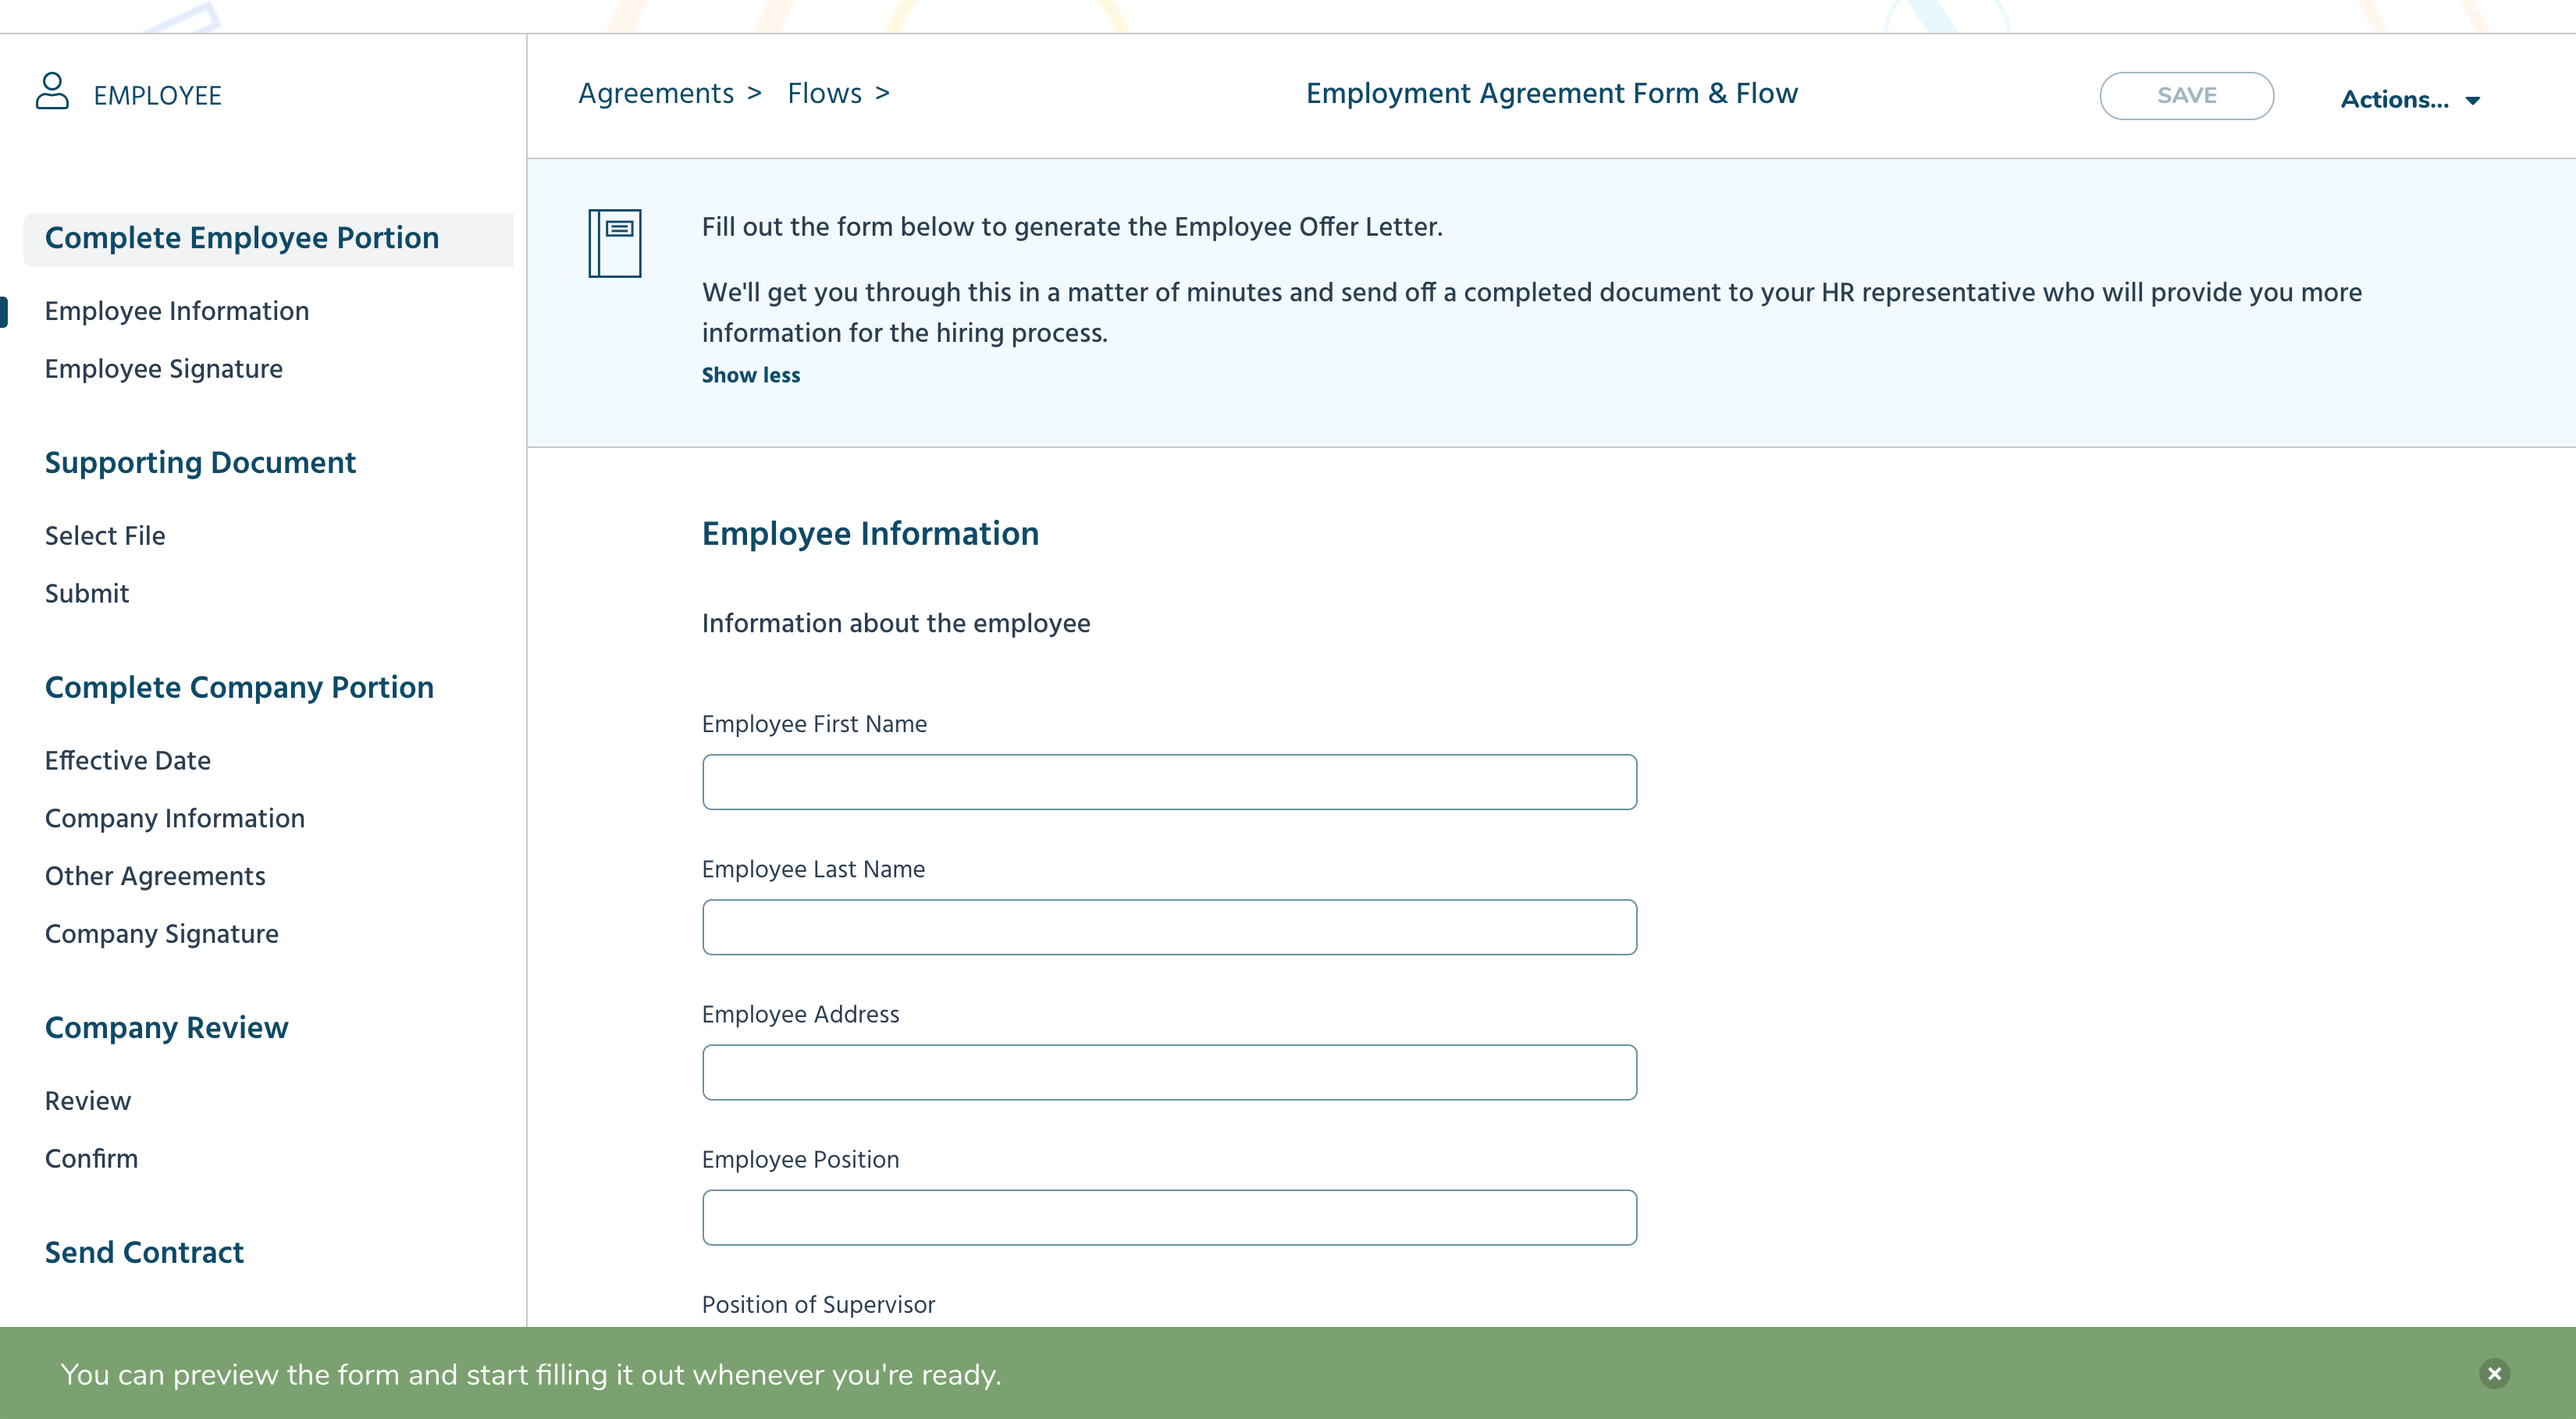
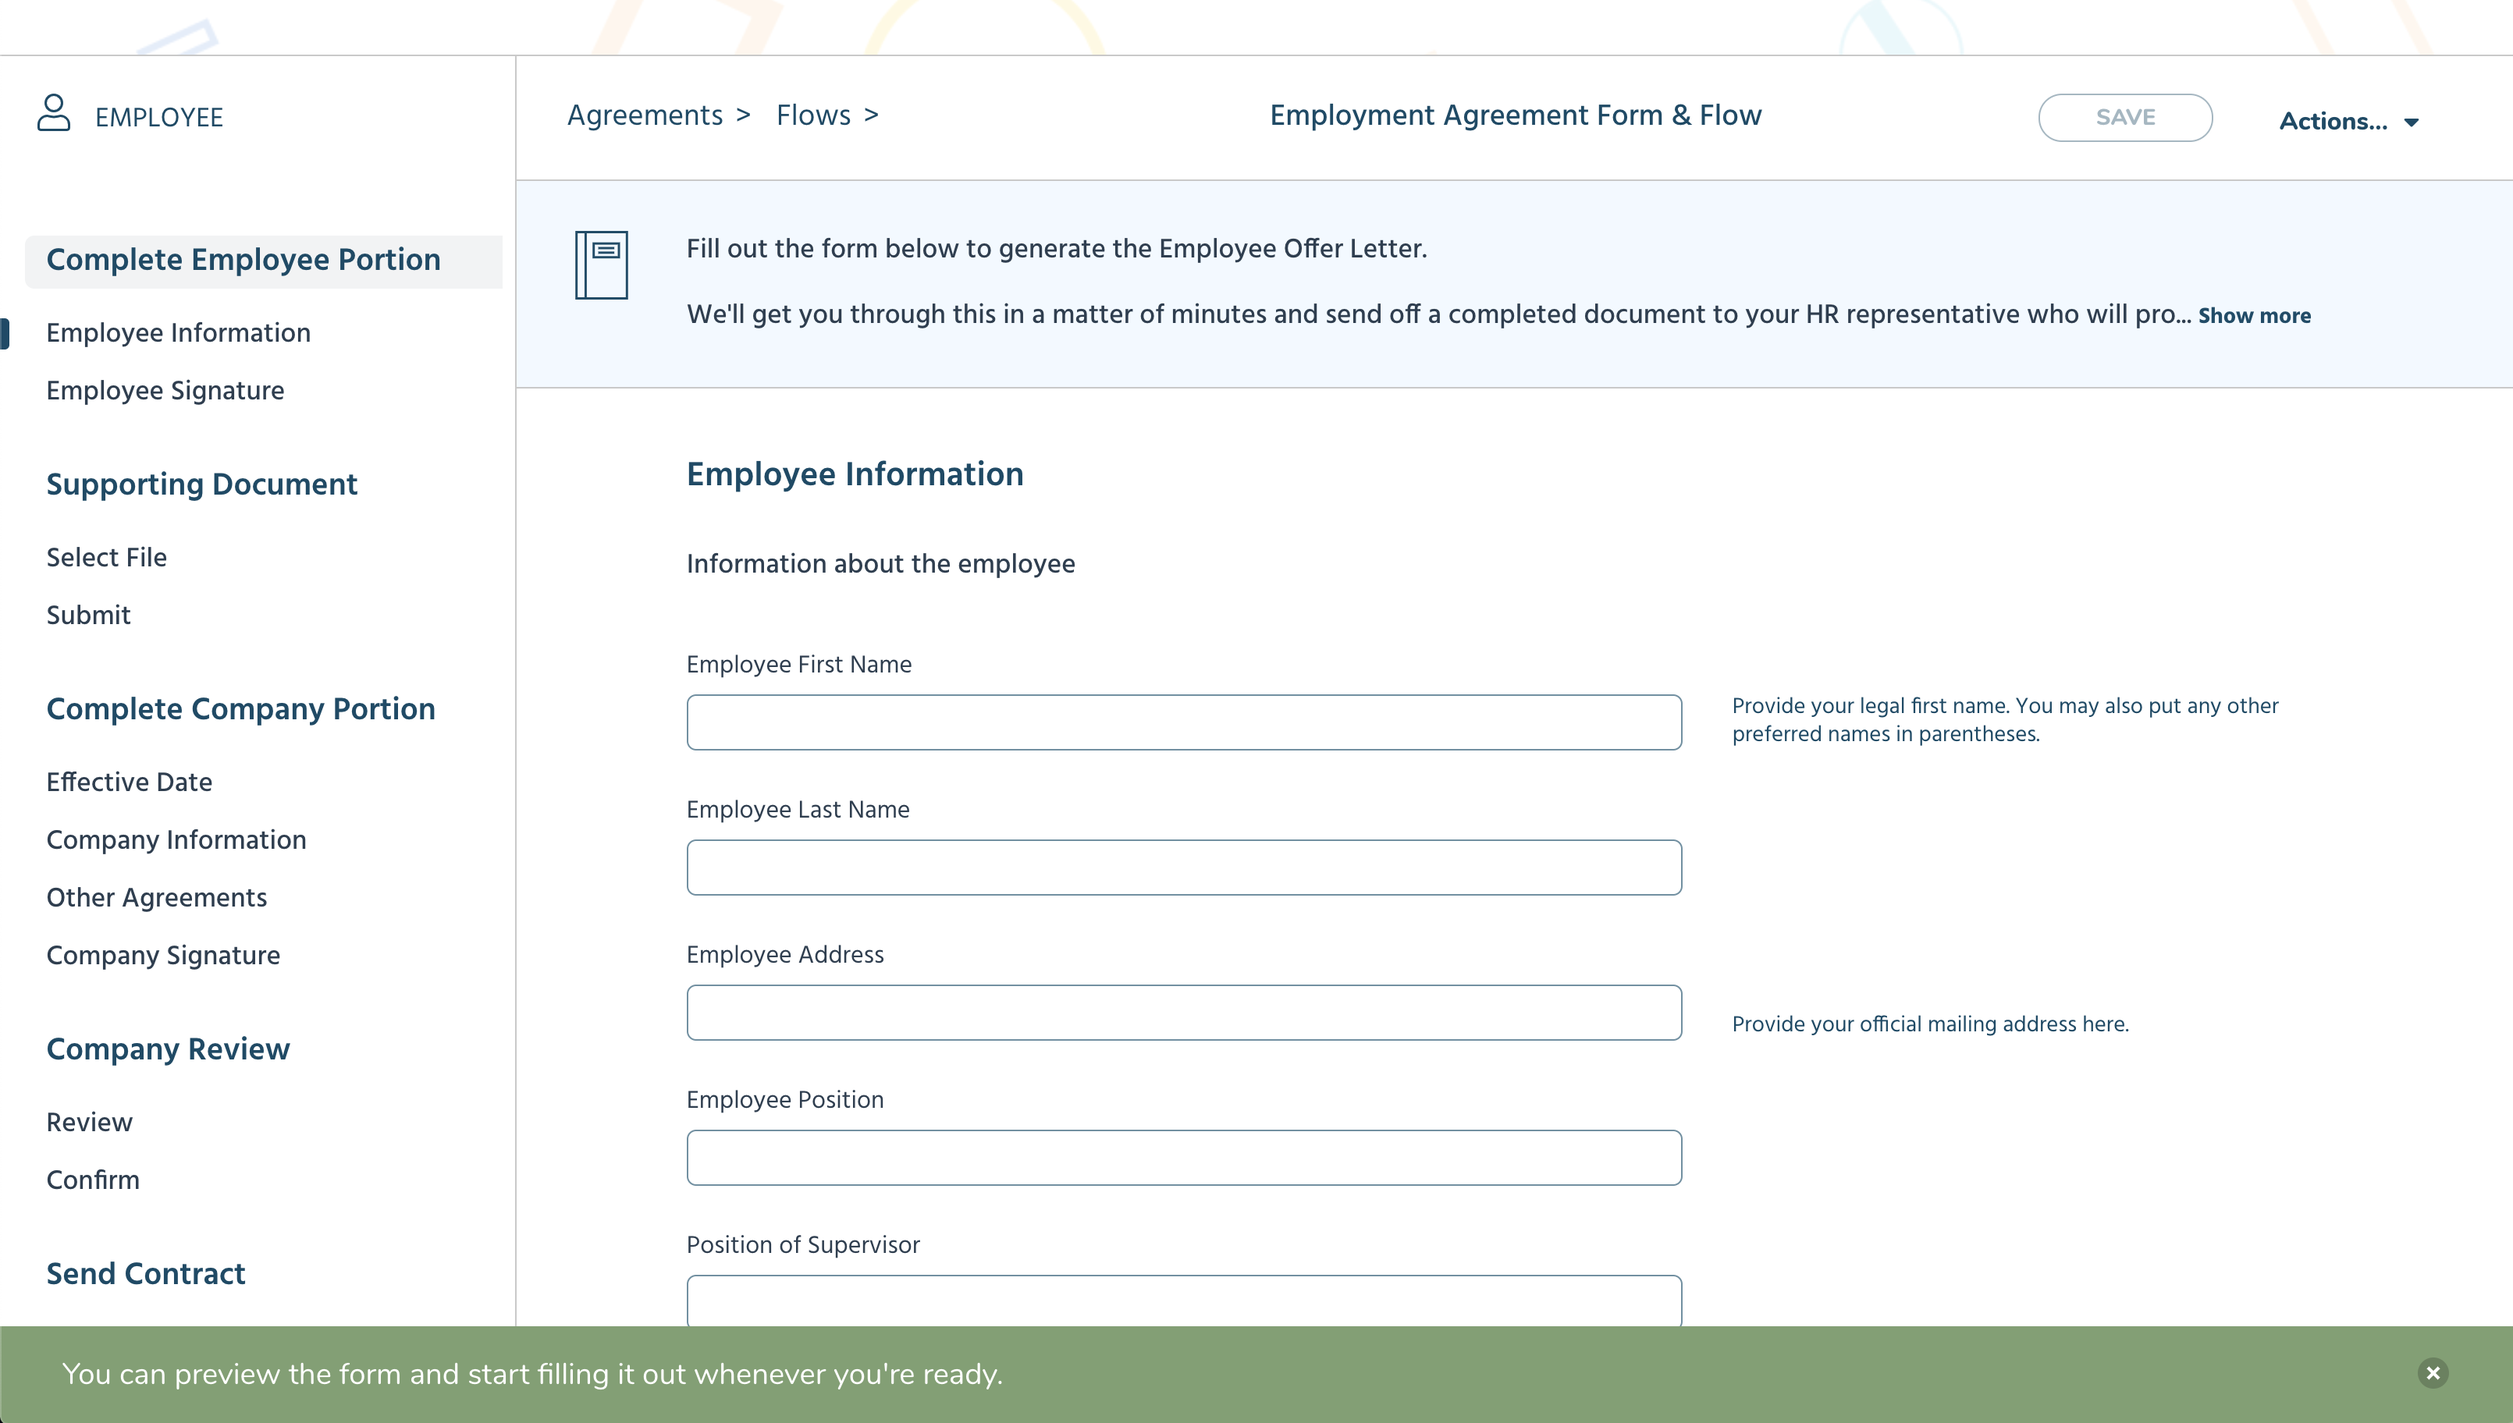
update with Flow field description text info

diff --git a/docs/forms-flows/README.md b/docs/forms-flows/README.md
@@ -64,6 +64,8 @@ The URL must begin with either `https://` or `http://`.
 
 A definition and organization of the variables included in the agreement template. Regardless of how the variables are organized in the agreement template, the variables can be independently defined in a Flow template to customize how they are grouped and in what order they appear in the rendered form. Each form section has a **title**, **description (optional)**, and a listing of **variables**.
 
+Each **variable** can also be listed with an optional description as shown below for two variables under the `Employee Information` section. The extra text can be useful to provide instructions or more details related to a particular input field and will be rendered along side the field in the form.
+
 ```
 ==
 title: Effective Date
@@ -83,9 +85,9 @@ Company Signatory Position
 title: Employee Information
 description: Information about the employee
 variables:
-Employee First Name,
+Employee First Name: "Provide your legal first name. You may also put any other preferred names in parentheses.",
 Employee Last Name,
-Employee Address,
+Employee Address: "Provide your official mailing address here.",
 Employee Position,
 Position of Supervisor,
 Payment Start Date,
@@ -254,9 +256,9 @@ Company Signatory Position
 title: Employee Information
 description: Information about the employee
 variables:
-Employee First Name,
+Employee First Name: "Provide your legal first name. You may also put any other preferred names in parentheses.",
 Employee Last Name,
-Employee Address,
+Employee Address: "Provide your official mailing address here.",
 Employee Position,
 Position of Supervisor,
 Payment Start Date,
@@ -386,9 +388,9 @@ Company Signatory Position
 title: Employee Information
 description: Information about the employee
 variables:
-Employee First Name,
+Employee First Name: "Provide your legal first name. You may also put any other preferred names in parentheses.",
 Employee Last Name,
-Employee Address,
+Employee Address: "Provide your official mailing address here.",
 Employee Position,
 Position of Supervisor,
 Payment Start Date,
